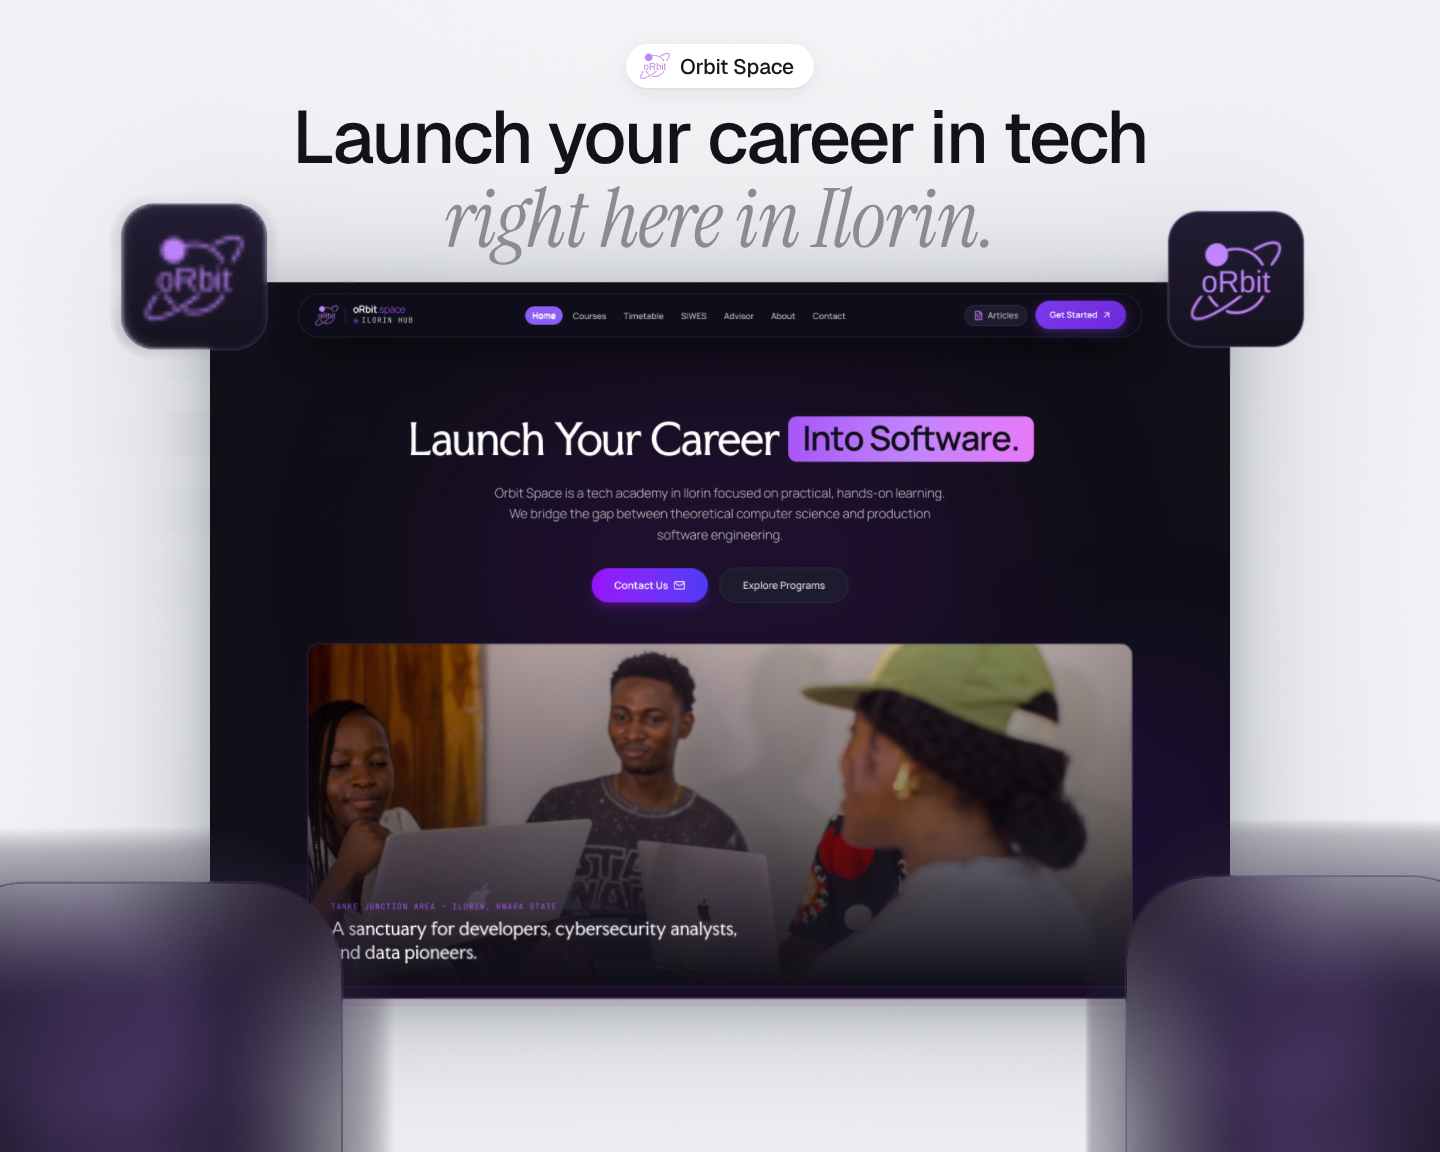
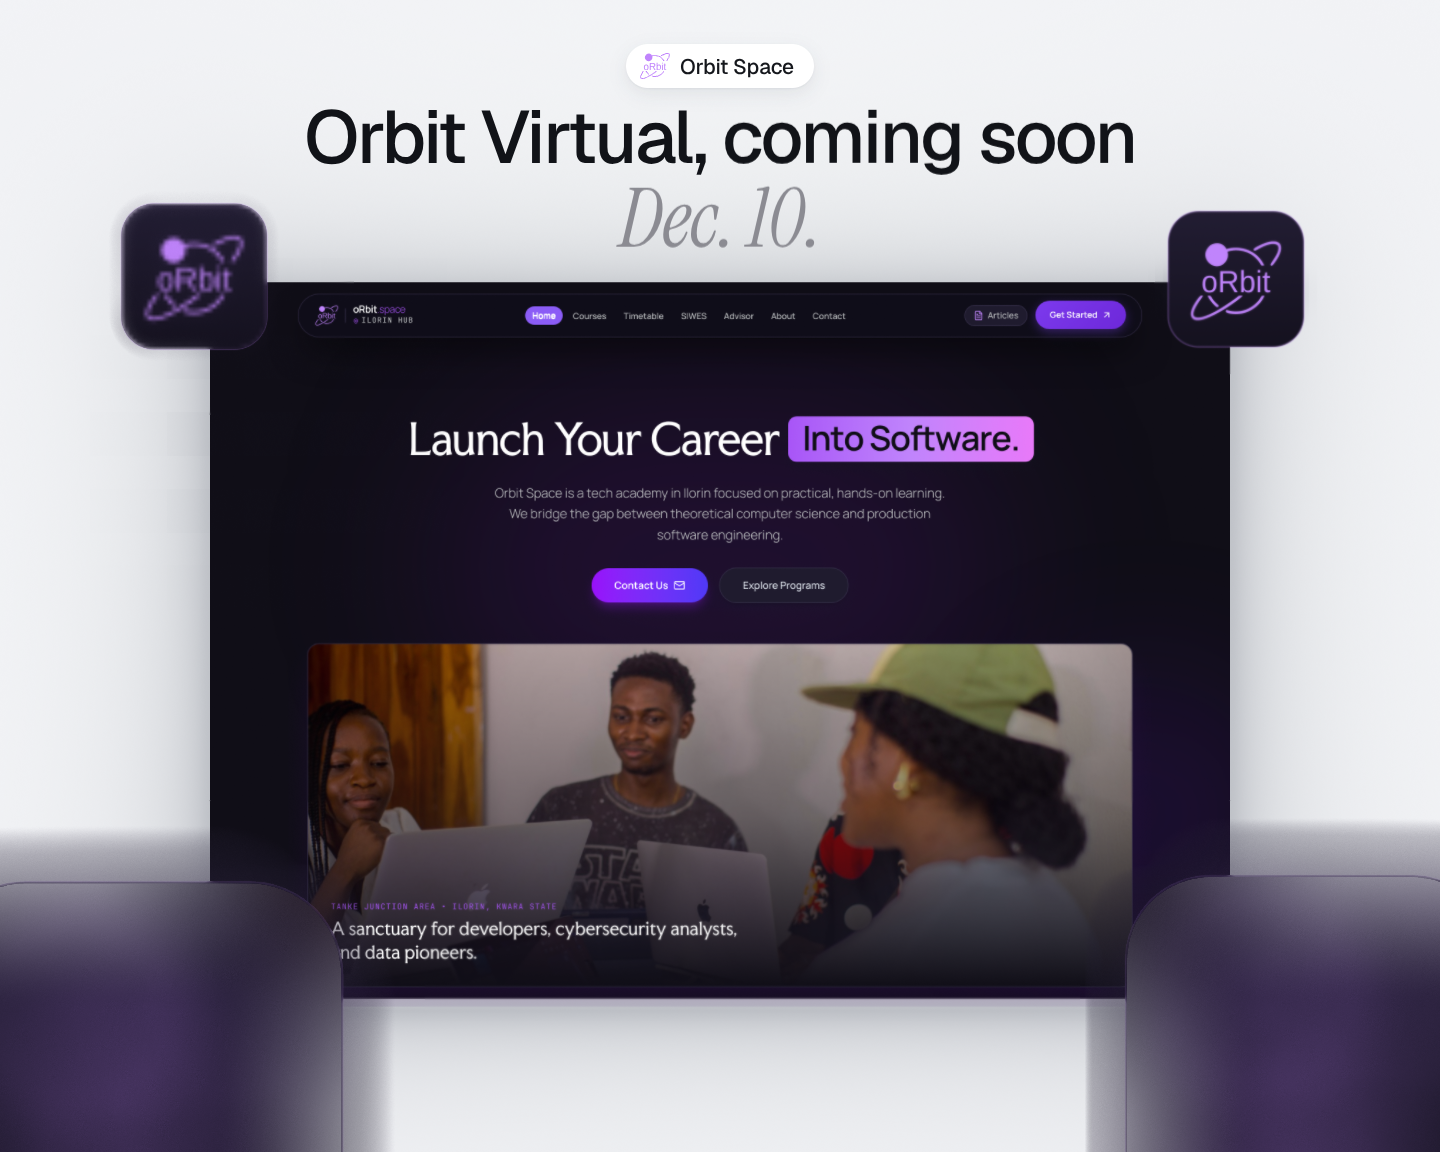
Set closing line: Orbit Virtual, coming soon / Dec. 10.
Claude-Session: https://claude.ai/code/session_011S3y2BEmvooJ7bF3QjcD4H

Changed region(s): [[0.1875, 0.0938, 0.8125, 0.2188]]

diff --git a/film/config.js b/film/config.js
@@ -1,8 +1,8 @@
 // Inputs for the film. Edit these, then reload / re-render.
 window.FILM_CONFIG = {
   brand: 'Orbit Space',
-  // closing line: statement, then short italic tail (PLACEHOLDER until confirmed)
-  line1: 'Launch your career in tech',
-  line2: 'right here in Ilorin.',
+  // closing line: statement, then short italic tail
+  line1: 'Orbit Virtual, coming soon',
+  line2: 'Dec. 10.',
   heroBottom: 1012,        // page px where the hero card is cut for the end card
 };
